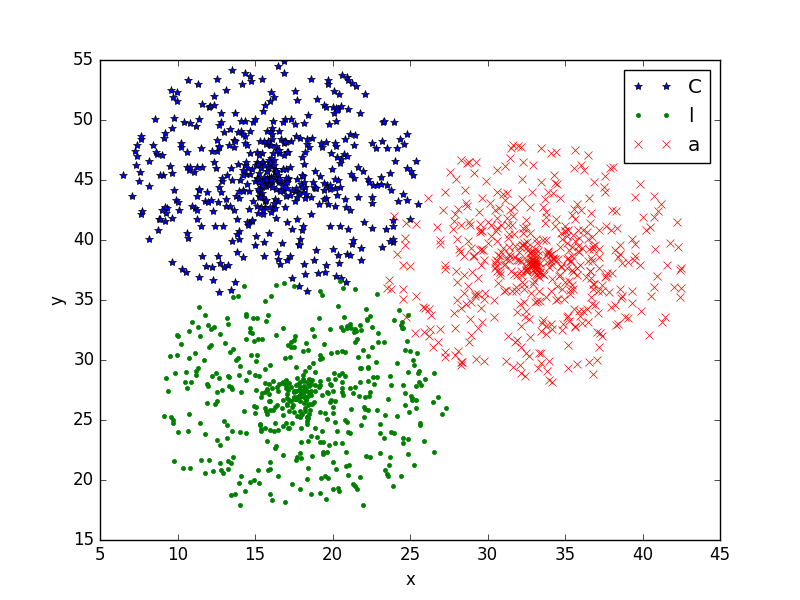
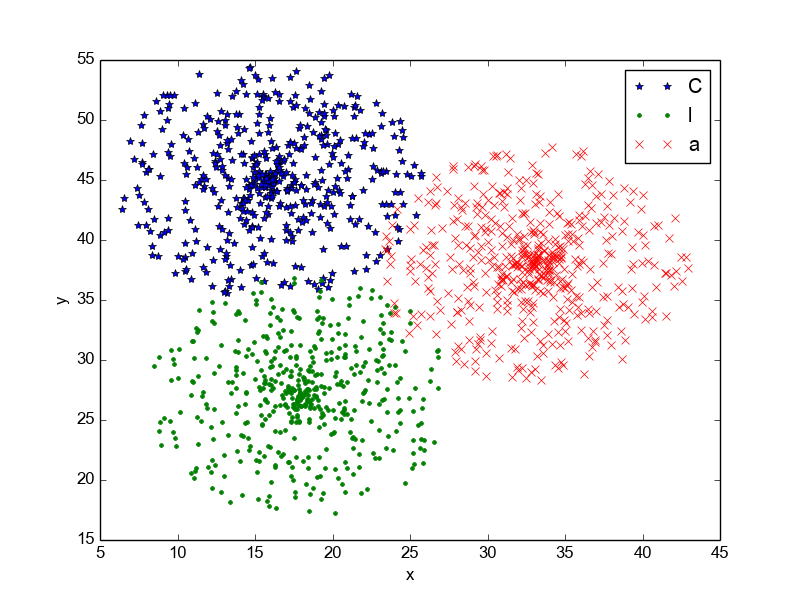
update model and add test module

diff --git a/main.py b/main.py
@@ -42,19 +42,43 @@ def main():
 	net.set_net_dim([2, 10, len(r)]);
 	net.build_model()
 	# prepare unsupervised and supervised data
-	unum = 300 # unsupervised learning
-	snum = 50  # supervised learning
+	unum = 3000 # unsupervised learning
+	snum = 300  # supervised learning
 	ulbl = np.random.randint(len(r), size=unum)
 	useq = np.random.randint(number, size=unum)
 	for i in xrange(unum):
-		v  = np.array([
+		v = np.array([
 			data[ulbl[i]][0][useq[i]],
 			data[ulbl[i]][1][useq[i]]
 			])
 		net.drive_model(v, []) # feedback=[] means no feedback
 	print "Model unsupervised learning process done!"
-	#for i in xrange(snum):
-		
+	# supervised learning
+	slbl = np.random.randint(len(r), size=snum)
+	sseq = np.random.randint(number, size=snum)
+	for i in xrange(snum):
+		v = np.array([
+			data[slbl[i]][0][sseq[i]],
+			data[slbl[i]][1][sseq[i]]
+			])
+		f = np.zeros(len(r)) + 0.25
+		f[slbl[i]] = 0.75
+		net.drive_model(v, f)
+	# check correctness
+	cnum = 100
+	clbl = np.random.randint(len(r), size=cnum)
+	cseq = np.random.randint(number, size=cnum)
+	crt = 0
+	for i in xrange(cnum):
+		v = np.array([
+			data[clbl[i]][0][cseq[i]],
+			data[clbl[i]][1][cseq[i]]
+			])
+		f = clbl[i]
+		p = np.argmax(net.drive_model(v, []))
+		if p==f:
+			crt += 1
+	print "correctness: ", 1.0*crt/cnum 
 
 
 

diff --git a/hlnn.py b/hlnn.py
@@ -149,14 +149,14 @@ class HLNN:
         # back broadcast error
         node_error[self.layers-2] = (self.outputlayer-feedback)*(
             1-self.outputlayer)*self.outputlayer
-        for i in range(self.layer-2, 0, -1):
+        for i in range(self.layers-2, 0, -1):
             node_error[i-1] = (node_error[i].dot(self.bp_conn[i].T))*(
                 1-self.hiddenlayer[i-1])*self.hiddenlayer[i-1]
         # correcting weight of connection
-        self.bp_conn[0] += self.eta*self.inputlayer.T.dot(
+        self.bp_conn[0] += self.bp_eta*self.inputlayer.T.dot(
             node_error[0])*self.somlayer
         for i in range(1, self.layers-1):
-            self.bp_conn[i] += self.eta*self.hiddenlayer[i-1].T.dot(
+            self.bp_conn[i] += self.bp_eta*self.hiddenlayer[i-1].T.dot(
                 node_error[i])
 
 # END OF FILE
